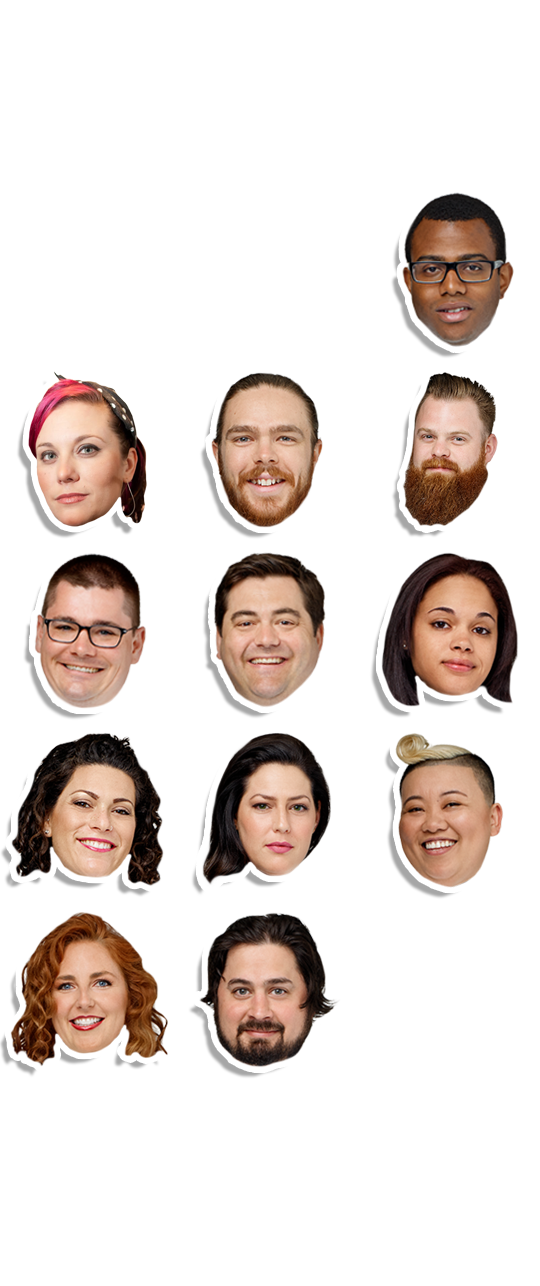
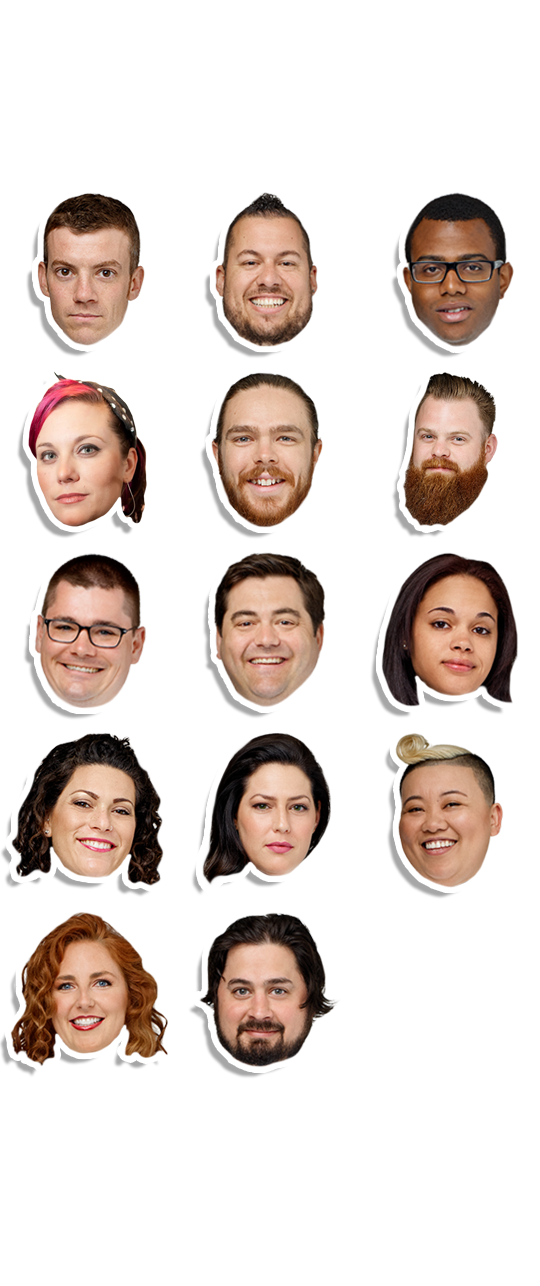
added new episode

Changed region(s): [[0.0296, 0.1244, 0.2667, 0.2799], [0.3852, 0.1244, 0.5926, 0.2799]]

diff --git a/css/main.css b/css/main.css
@@ -1,1 +1,1 @@
-html,body,div,span,applet,object,iframe,h1,h2,h3,h4,h5,h6,p,blockquote,pre,a,abbr,acronym,address,big,cite,code,del,dfn,em,img,ins,kbd,q,s,samp,small,strike,strong,sub,sup,tt,var,b,u,i,center,dl,dt,dd,ol,ul,li,fieldset,form,label,legend,table,caption,tbody,tfoot,thead,tr,th,td,article,aside,canvas,details,embed,figure,figcaption,footer,header,hgroup,menu,nav,output,ruby,section,summary,time,mark,audio,video{margin:0;padding:0;border:0;font-size:100%;font:inherit;vertical-align:baseline}article,aside,details,figcaption,figure,footer,header,hgroup,menu,nav,section{display:block}body{line-height:1}ol,ul{list-style:none}blockquote,q{quotes:none}blockquote:before,blockquote:after,q:before,q:after{content:'';content:none}table{border-collapse:collapse;border-spacing:0}*,*:after,*:before{-moz-box-sizing:border-box;-webkit-box-sizing:border-box;box-sizing:border-box}html{font-size:100%;-webkit-text-size-adjust:none}body{text-rendering:optimizeLegibility;-webkit-font-smoothing:antialiased;font-family:'Helvetica Neue',Helvetica,Arial,sans-serif;font-size:18px;line-height:1.4;color:white;background:#333}::-moz-selection{background-color:#ba55d3;color:white}::selection{background-color:#ba55d3;color:white}h1,p{margin-bottom:20px}h1{font-weight:bold}a{display:inline-block;text-decoration:none;color:#0ff}p a{border-bottom:1px dotted transparent;}p a:hover{border-bottom:1px dotted #0ff}p{margin:0 0 20px}em{font-style:italic}img:not(.avatar){width:100%;max-width:100%}.footnote{font-size:14px;color:rgba(255,255,255,0.6)}.cf:before,.grid:before,.cf:after,.grid:after{content:" ";display:table}.cf:after,.grid:after{clear:both}.nav-main{height:45px;position:relative;background:#333;}.nav-main a,.nav-main label{color:white}.nav-main .nav-home{margin:10px 20px;float:left}.nav-main input.menu-toggle{visibility:hidden;position:absolute;left:-100%}.nav-main label{padding:10px 20px;float:right;background:#800080;border-left:1px solid rgba(255,255,255,0.2);cursor:pointer}.nav-main .nav-seasons{display:none;position:absolute;top:45px;left:0;z-index:100}.nav-main .menu-toggle:checked ~ .nav-seasons{display:block}.nav-main .nav-seasons{background-image:linear-gradient(to right,#4682b4,#c71585)}.nav-seasons{width:100%;background-image:linear-gradient(to right,#4682b4,#008b8b);border-top:1px solid rgba(255,255,255,0.3);border-bottom:1px solid rgba(255,255,255,0.3);box-shadow:0 3px 3px rgba(0,0,0,0.2);}.nav-seasons li{float:left;border-right:1px solid rgba(255,255,255,0.3);}.nav-seasons li a{padding:10px;display:block;color:white;}.nav-seasons li a:hover{background:rgba(0,0,0,0.1)}.nav-seasons li span{display:block}.nav-seasons li span:first-of-type{font-size:24px;font-weight:bold}.nav-seasons li span:nth-of-type(2){font-size:15px}@media screen and (max-width:400px){.nav-seasons li{width:25%;}.nav-seasons li:nth-child(-n+12){border-bottom:1px solid rgba(255,255,255,0.3)}.nav-seasons li:nth-child(4),.nav-seasons li:nth-child(8),.nav-seasons li:nth-child(12){border-right:none}}@media screen and (min-width:401px) and (max-width:650px){.nav-seasons li{width:20%;}.nav-seasons li:nth-child(-n+10){border-bottom:1px solid rgba(255,255,255,0.3)}.nav-seasons li:nth-child(5),.nav-seasons li:nth-child(10){border-right:none}}@media screen and (min-width:651px) and (max-width:1030px){.nav-seasons li{width:14.28%;}.nav-seasons li:nth-child(-n+7){border-bottom:1px solid rgba(255,255,255,0.3)}.nav-seasons li:nth-child(7){border-right:none}}@media screen and (min-width:1031px){.nav-seasons li{width:7.69%;}.nav-seasons li:last-child{border-right:none}}@media screen and (max-width:700px){.grid{padding-bottom:40px}}@media screen and (min-width:701px){.grid-item{margin:0 0 30px;padding:0 15px;float:left}.grid-sm-1{width:100%}.grid-sm-2{width:50%}.grid-sm-3{width:33.33%}}@media screen and (min-width:1001px){.grid-item{margin:0 0 50px;padding:0 25px}.grid-lg-2{width:50%}.grid-lg-3{width:33.33%}.grid-lg-3-1{width:66.66%}.grid-lg-4{width:25%}.grid-lg-5{width:20%}}.intro{margin:0 auto 30px;padding:30px 15px;background:rgba(0,0,0,0.1);text-align:center;}.intro h1{font-size:45px;}.intro h1 span{display:block}.intro h1 span:last-child{font-size:30px}.intro h2{margin-bottom:20px;font-size:24px}.intro p{max-width:500px;margin-left:auto;margin-right:auto}@media screen and (max-width:500px){.intro h1{font-size:35px;}.intro h1 span:last-child{font-size:20px}}@media screen and (min-width:701px) and (max-width:1000px){.intro{margin-bottom:60px}}@media screen and (min-width:1001px){.intro{margin-bottom:100px}}@media screen and (min-width:701px){.avatar{width:90px;height:90px}}@media screen and (max-width:700px){.avatar{width:70px;height:70px}}.icon{background:no-repeat left top;}.icon.woman{background-image:url("../images/woman.svg")}.icon.man{background-image:url("../images/man.svg")}.stat .number{position:relative;font-weight:bold;}.stat .number span{display:inline-block}.stat .number span + span{margin-left:15px}.stat .number .roster{padding-left:50px;position:absolute;right:0;}.stat .number .roster .avatar{float:right}.stat .name{margin-left:10px;display:inline-block;position:absolute;background:rgba(0,0,0,0.2);border-radius:3px;font-weight:normal;line-height:1;}.stat .name .avatar{display:block;position:absolute}@media screen and (max-width:700px){.stat:not(.person){padding:10px 0;border-bottom:1px solid rgba(255,255,255,0.5);}.stat:not(.person) h2{padding-top:10px;float:left}.stat:not(.person) .number{text-align:right;font-size:30px}.stat:not(.person) .woman,.stat:not(.person) .man{background-position:left 9px;background-size:auto 23px;padding-left:23px}.stat.person h2{padding:20px 0 5px;border-bottom:1px solid rgba(255,255,255,0.5)}.stat.person .number{font-size:55px;}.stat.person .number .roster{top:8px}.stat.person .name{padding:8px 40px 8px 10px;top:25px;right:30px;font-size:15px;}.stat.person .name .avatar{top:-15px;right:-35px}}@media screen and (min-width:701px){.stat h2{border-bottom:1px solid rgba(255,255,255,0.5)}.stat .number{font-size:85px;}.stat .number .roster{top:15px}.stat .name{padding:8px 45px 6px 10px;top:50px;right:40px;font-size:16px;}.stat .name .avatar{top:-32px;right:-45px}.stat .woman,.stat .man{background-position:left center;background-size:auto 50px;padding-left:40px}}.featured{padding:30px 15px 20px;background:rgba(0,0,0,0.1);text-align:center;clear:left;}.featured .number,.featured .phrase{font-weight:bold}.featured .phrase{margin-top:5px;margin-bottom:20px;font-size:40px;line-height:1.2}.featured.restaurant-wars .avatar{margin-bottom:15px}.featured.phrase-list{background:rgba(255,255,255,0.1);border-top:1px solid rgba(255,255,255,0.2);border-bottom:1px solid rgba(255,255,255,0.2);}.featured.phrase-list .phrase{margin-bottom:40px}.featured.phrase-list p{margin-bottom:8px;padding:5px 45px 5px 10px;position:relative;background:rgba(0,0,0,0.05);border-radius:3px;}.featured.phrase-list p span{position:absolute;top:50%;-webkit-transform:translateY(-50%);-moz-transform:translateY(-50%);transform:translateY(-50%);right:10px;font-size:12px;font-weight:bold}.featured .roster{margin-left:auto;margin-right:auto;max-width:850px}@media screen and (max-width:700px){.featured{margin:30px 0;}.featured .number{font-size:40px}.featured .phrase{font-size:25px}.featured.phrase-list .grid-item{margin-bottom:0}}@media screen and (min-width:701px){.featured{margin:0 0 80px;}.featured .number{font-size:85px}.featured.phrase-list .grid-item{margin-bottom:20px}}.roster .avatar{margin:0 -5px;position:relative;z-index:2}.roster .winner{display:inline-block;position:relative;}.roster .winner:before{width:100%;display:block;position:absolute;left:0;content:'WINNER!';z-index:1;font-size:11px;font-weight:bold;letter-spacing:1px;color:white}h2 + .roster{margin-top:15px}@media screen and (max-width:390px){.stat.roster-lg{min-height:190px}}@media screen and (max-width:450px){.season-13 .stat.roster-lg{min-height:190px}}@media screen and (max-width:700px){.roster .winner:before{top:75px}}@media screen and (min-width:701px){.roster .winner:before{top:92px}}@media screen and (min-width:701px) and (max-width:1000px){.stat.roster-lg{min-height:240px}}.ranking{list-style:none;}.ranking li{width:100%;margin:0 0 15px;padding:25px 0;padding-left:60px;position:relative;background-image:linear-gradient(to right,rgba(0,0,0,0) 20px,rgba(0,0,0,0.2) 20px);border-radius:0 3px 3px 0;font-size:16px;}.ranking li .chef{width:90px;height:90px;position:absolute;top:-10px;background:no-repeat;background-size:270px auto}.ranking li:nth-child(1) .chef{background-position:0 0}.ranking li:nth-child(2) .chef{background-position:-90px 0}.ranking li:nth-child(3) .chef{background-position:-180px 0}.ranking li:nth-child(4) .chef{background-position:0 -90px}.ranking li:nth-child(5) .chef{background-position:-90px -90px}.ranking li:nth-child(6) .chef{background-position:-180px -90px}.ranking li:nth-child(7) .chef{background-position:0 -180px}.ranking li:nth-child(8) .chef{background-position:-90px -180px}.ranking li:nth-child(9) .chef{background-position:-180px -180px}.ranking li:nth-child(10) .chef{background-position:0 -270px}.ranking li:nth-child(11) .chef{background-position:-90px -270px}.ranking li:nth-child(12) .chef{background-position:-180px -270px}.ranking li:nth-child(13) .chef{background-position:0 -360px}.ranking li:nth-child(14) .chef{background-position:-90px -360px}.ranking li:nth-child(15) .chef{background-position:-180px -360px}.ranking li:nth-child(16) .chef{background-position:0 -450px}.ranking li:nth-child(17) .chef{background-position:-90px -450px}.ranking li:nth-child(18) .chef{background-position:-180px -450px}.ranking li:nth-child(19) .chef{background-position:0 -540px}.ranking li:nth-child(20) .chef{background-position:-90px -540px}.ranking li span{padding-right:50px;display:block;position:relative;}.ranking li span:after{padding:7px 10px;position:absolute;right:5px;top:-6px;font-weight:bold}.ranking li:nth-child(2) span:after{content:'2nd'}.ranking li:nth-child(2) span:after{content:'2nd'}.ranking li:nth-child(3) span:after{content:'3rd'}.ranking li:nth-child(4) span:after{content:'4th'}.ranking li:nth-child(5) span:after{content:'5th'}.ranking li:nth-child(6) span:after{content:'6th'}.ranking li:nth-child(7) span:after{content:'7th'}.ranking li:nth-child(8) span:after{content:'8th'}.ranking li:nth-child(9) span:after{content:'9th'}.ranking li:nth-child(10) span:after{content:'10th'}.ranking li:nth-child(11) span:after{content:'11th'}.ranking li:nth-child(12) span:after{content:'12th'}.ranking li:nth-child(13) span:after{content:'13th'}.ranking li:nth-child(14) span:after{content:'14th'}.ranking li:nth-child(15) span:after{content:'15th'}.ranking li:nth-child(16) span:after{content:'16th'}.ranking li:nth-child(17) span:after{content:'17th'}.ranking li:nth-child(18) span:after{content:'18th'}.ranking li:nth-child(19) span:after{content:'19th'}.ranking li:nth-child(20) span:after{content:'20th'}.ranking li:first-child span:before,.ranking li.fan-fave span:before{width:0;height:0;content:'';position:absolute;right:-10px;top:25px;border-style:solid;border-width:10px 10px 0 0}.ranking li:first-child span:after,.ranking li.fan-fave span:after{right:-10px;font-size:16px;line-height:1}.ranking li:first-child span:before{border-color:#daa520 transparent transparent transparent}.ranking li:first-child span:after{content:'Winner';background:#ffd700;color:#a52a2a}.ranking li.fan-fave span:before{border-color:#4b0082 transparent transparent transparent}.ranking li.fan-fave span:after{content:'Fan Fave';background:#9932cc;color:white}.ranking.current li:nth-child(-n+5){display:none}@media screen and (max-width:700px){.ranking li{padding:15px 0;padding-left:55px;}.ranking li .chef{left:-15px;width:70px;height:70px;background-size:210px auto}.ranking li:nth-child(1) .chef{background-position:0 0}.ranking li:nth-child(2) .chef{background-position:-70px 0}.ranking li:nth-child(3) .chef{background-position:-140px 0}.ranking li:nth-child(4) .chef{background-position:0 -70px}.ranking li:nth-child(5) .chef{background-position:-70px -70px}.ranking li:nth-child(6) .chef{background-position:-140px -70px}.ranking li:nth-child(7) .chef{background-position:0 -140px}.ranking li:nth-child(8) .chef{background-position:-70px -140px}.ranking li:nth-child(9) .chef{background-position:-140px -140px}.ranking li:nth-child(10) .chef{background-position:0 -210px}.ranking li:nth-child(11) .chef{background-position:-70px -210px}.ranking li:nth-child(12) .chef{background-position:-140px -210px}.ranking li:nth-child(13) .chef{background-position:0 -280px}.ranking li:nth-child(14) .chef{background-position:-70px -280px}.ranking li:nth-child(15) .chef{background-position:-140px -280px}.ranking li:nth-child(16) .chef{background-position:0 -350px}.ranking li:nth-child(17) .chef{background-position:-70px -350px}.ranking li:nth-child(18) .chef{background-position:-140px -350px}.ranking li:nth-child(19) .chef{background-position:0 -420px}.ranking li:nth-child(20) .chef{background-position:-70px -420px}}@media screen and (min-width:701px){.ranking li{padding-left:60px;}.ranking li .chef{left:-30px}}footer{padding:40px 20px;background:#333;text-align:center;}footer p{margin-bottom:20px}.p0{padding:0}.m0{margin:0}.center{text-align:center}.left{text-align:left}.bg-dark{background:rgba(0,0,0,0.1)}.bg-light{background:rgba(255,255,255,0.1)}.season{background:linear-gradient(175deg,#008b8b 0,#c71585 100%);padding:20px;}.season.home{background:linear-gradient(170deg,#4682b4 0,#008b8b 50%,#c71585 100%)}.season.glossary,.season.four-oh-four{background:linear-gradient(170deg,#4682b4 0,#008b8b 50%)}.season-01 .ranking li .chef{background-image:url("/images/season-01.png")}.season-02 .ranking li .chef{background-image:url("/images/season-02.png")}.season-03 .ranking li .chef{background-image:url("/images/season-03.png")}.season-04 .ranking li .chef{background-image:url("/images/season-04.png")}.season-05 .ranking li .chef{background-image:url("/images/season-05.png")}.season-06 .ranking li .chef{background-image:url("/images/season-06.png")}.season-07 .ranking li .chef{background-image:url("/images/season-07.png")}.season-08 .ranking li .chef{background-image:url("/images/season-08.png")}.season-09 .ranking li .chef{background-image:url("/images/season-09.png")}.season-10 .ranking li .chef{background-image:url("/images/season-10.png")}.season-11 .ranking li .chef{background-image:url("/images/season-11.png")}.season-12 .ranking li .chef{background-image:url("/images/season-12.png")}.season-13 .ranking li .chef{background-image:url("/images/season-13.png")}.glossary-list{max-width:550px;margin:0 auto 60px;}.glossary-list dt{margin-bottom:10px;font-weight:bold;font-size:20px}.glossary-list dd{margin-bottom:40px}.glossary-list p{margin-left:20px;margin-bottom:20px}.glossary-list ol{list-style:decimal;padding-left:45px;}.glossary-list ol li{margin-bottom:10px}@media screen and (min-width:1001px){.glossary-list{margin-top:-40px}}
+html,body,div,span,applet,object,iframe,h1,h2,h3,h4,h5,h6,p,blockquote,pre,a,abbr,acronym,address,big,cite,code,del,dfn,em,img,ins,kbd,q,s,samp,small,strike,strong,sub,sup,tt,var,b,u,i,center,dl,dt,dd,ol,ul,li,fieldset,form,label,legend,table,caption,tbody,tfoot,thead,tr,th,td,article,aside,canvas,details,embed,figure,figcaption,footer,header,hgroup,menu,nav,output,ruby,section,summary,time,mark,audio,video{margin:0;padding:0;border:0;font-size:100%;font:inherit;vertical-align:baseline}article,aside,details,figcaption,figure,footer,header,hgroup,menu,nav,section{display:block}body{line-height:1}ol,ul{list-style:none}blockquote,q{quotes:none}blockquote:before,blockquote:after,q:before,q:after{content:'';content:none}table{border-collapse:collapse;border-spacing:0}*,*:after,*:before{-moz-box-sizing:border-box;-webkit-box-sizing:border-box;box-sizing:border-box}html{font-size:100%;-webkit-text-size-adjust:none}body{text-rendering:optimizeLegibility;-webkit-font-smoothing:antialiased;font-family:'Helvetica Neue',Helvetica,Arial,sans-serif;font-size:18px;line-height:1.4;color:white;background:#333}::-moz-selection{background-color:#ba55d3;color:white}::selection{background-color:#ba55d3;color:white}h1,p{margin-bottom:20px}h1{font-weight:bold}a{display:inline-block;text-decoration:none;color:#0ff}p a{border-bottom:1px dotted transparent;}p a:hover{border-bottom:1px dotted #0ff}p{margin:0 0 20px}em{font-style:italic}img:not(.avatar){width:100%;max-width:100%}.footnote{font-size:14px;color:rgba(255,255,255,0.6)}.cf:before,.grid:before,.cf:after,.grid:after{content:" ";display:table}.cf:after,.grid:after{clear:both}.nav-main{height:45px;position:relative;background:#333;}.nav-main a,.nav-main label{color:white}.nav-main .nav-home{margin:10px 20px;float:left}.nav-main input.menu-toggle{visibility:hidden;position:absolute;left:-100%}.nav-main label{padding:10px 20px;float:right;background:#800080;border-left:1px solid rgba(255,255,255,0.2);cursor:pointer}.nav-main .nav-seasons{display:none;position:absolute;top:45px;left:0;z-index:100}.nav-main .menu-toggle:checked ~ .nav-seasons{display:block}.nav-main .nav-seasons{background-image:linear-gradient(to right,#4682b4,#c71585)}.nav-seasons{width:100%;background-image:linear-gradient(to right,#4682b4,#008b8b);border-top:1px solid rgba(255,255,255,0.3);border-bottom:1px solid rgba(255,255,255,0.3);box-shadow:0 3px 3px rgba(0,0,0,0.2);}.nav-seasons li{float:left;border-right:1px solid rgba(255,255,255,0.3);}.nav-seasons li a{padding:10px;display:block;color:white;}.nav-seasons li a:hover{background:rgba(0,0,0,0.1)}.nav-seasons li span{display:block}.nav-seasons li span:first-of-type{font-size:24px;font-weight:bold}.nav-seasons li span:nth-of-type(2){font-size:15px}@media screen and (max-width:400px){.nav-seasons li{width:25%;}.nav-seasons li:nth-child(-n+12){border-bottom:1px solid rgba(255,255,255,0.3)}.nav-seasons li:nth-child(4),.nav-seasons li:nth-child(8),.nav-seasons li:nth-child(12){border-right:none}}@media screen and (min-width:401px) and (max-width:650px){.nav-seasons li{width:20%;}.nav-seasons li:nth-child(-n+10){border-bottom:1px solid rgba(255,255,255,0.3)}.nav-seasons li:nth-child(5),.nav-seasons li:nth-child(10){border-right:none}}@media screen and (min-width:651px) and (max-width:1030px){.nav-seasons li{width:14.28%;}.nav-seasons li:nth-child(-n+7){border-bottom:1px solid rgba(255,255,255,0.3)}.nav-seasons li:nth-child(7){border-right:none}}@media screen and (min-width:1031px){.nav-seasons li{width:7.69%;}.nav-seasons li:last-child{border-right:none}}@media screen and (max-width:700px){.grid{padding-bottom:40px}}@media screen and (min-width:701px){.grid-item{margin:0 0 30px;padding:0 15px;float:left}.grid-sm-1{width:100%}.grid-sm-2{width:50%}.grid-sm-3{width:33.33%}}@media screen and (min-width:1001px){.grid-item{margin:0 0 50px;padding:0 25px}.grid-lg-2{width:50%}.grid-lg-3{width:33.33%}.grid-lg-3-1{width:66.66%}.grid-lg-4{width:25%}.grid-lg-5{width:20%}}.intro{margin:0 auto 30px;padding:30px 15px;background:rgba(0,0,0,0.1);text-align:center;}.intro h1{font-size:45px;}.intro h1 span{display:block}.intro h1 span:last-child{font-size:30px}.intro h2{margin-bottom:20px;font-size:24px}.intro p{max-width:500px;margin-left:auto;margin-right:auto}@media screen and (max-width:500px){.intro h1{font-size:35px;}.intro h1 span:last-child{font-size:20px}}@media screen and (min-width:701px) and (max-width:1000px){.intro{margin-bottom:60px}}@media screen and (min-width:1001px){.intro{margin-bottom:100px}}@media screen and (min-width:701px){.avatar{width:90px;height:90px}}@media screen and (max-width:700px){.avatar{width:70px;height:70px}}.icon{background:no-repeat left top;}.icon.woman{background-image:url("../images/woman.svg")}.icon.man{background-image:url("../images/man.svg")}.stat .number{position:relative;font-weight:bold;}.stat .number span{display:inline-block}.stat .number span + span{margin-left:15px}.stat .number .roster{padding-left:50px;position:absolute;right:0;}.stat .number .roster .avatar{float:right}.stat .name{margin-left:10px;display:inline-block;position:absolute;background:rgba(0,0,0,0.2);border-radius:3px;font-weight:normal;line-height:1;}.stat .name .avatar{display:block;position:absolute}@media screen and (max-width:700px){.stat:not(.person){padding:10px 0;border-bottom:1px solid rgba(255,255,255,0.5);}.stat:not(.person) h2{padding-top:10px;float:left}.stat:not(.person) .number{text-align:right;font-size:30px}.stat:not(.person) .woman,.stat:not(.person) .man{background-position:left 9px;background-size:auto 23px;padding-left:23px}.stat.person h2{padding:20px 0 5px;border-bottom:1px solid rgba(255,255,255,0.5)}.stat.person .number{font-size:55px;}.stat.person .number .roster{top:8px}.stat.person .name{padding:8px 40px 8px 10px;top:25px;right:30px;font-size:15px;}.stat.person .name .avatar{top:-15px;right:-35px}}@media screen and (min-width:701px){.stat h2{border-bottom:1px solid rgba(255,255,255,0.5)}.stat .number{font-size:85px;}.stat .number .roster{top:15px}.stat .name{padding:8px 45px 6px 10px;top:50px;right:40px;font-size:16px;}.stat .name .avatar{top:-32px;right:-45px}.stat .woman,.stat .man{background-position:left center;background-size:auto 50px;padding-left:40px}}.featured{padding:30px 15px 20px;background:rgba(0,0,0,0.1);text-align:center;clear:left;}.featured .number,.featured .phrase{font-weight:bold}.featured .phrase{margin-top:5px;margin-bottom:20px;font-size:40px;line-height:1.2}.featured.restaurant-wars .avatar{margin-bottom:15px}.featured.phrase-list{background:rgba(255,255,255,0.1);border-top:1px solid rgba(255,255,255,0.2);border-bottom:1px solid rgba(255,255,255,0.2);}.featured.phrase-list .phrase{margin-bottom:40px}.featured.phrase-list p{margin-bottom:8px;padding:5px 45px 5px 10px;position:relative;background:rgba(0,0,0,0.05);border-radius:3px;}.featured.phrase-list p span{position:absolute;top:50%;-webkit-transform:translateY(-50%);-moz-transform:translateY(-50%);transform:translateY(-50%);right:10px;font-size:12px;font-weight:bold}.featured .roster{margin-left:auto;margin-right:auto;max-width:850px}@media screen and (max-width:700px){.featured{margin:30px 0;}.featured .number{font-size:40px}.featured .phrase{font-size:25px}.featured.phrase-list .grid-item{margin-bottom:0}}@media screen and (min-width:701px){.featured{margin:0 0 80px;}.featured .number{font-size:85px}.featured.phrase-list .grid-item{margin-bottom:20px}}.roster .avatar{margin:0 -5px;position:relative;z-index:2}.roster .winner{display:inline-block;position:relative;}.roster .winner:before{width:100%;display:block;position:absolute;left:0;content:'WINNER!';z-index:1;font-size:11px;font-weight:bold;letter-spacing:1px;color:white}h2 + .roster{margin-top:15px}@media screen and (max-width:390px){.stat.roster-lg{min-height:190px}}@media screen and (max-width:450px){.season-13 .stat.roster-lg{min-height:190px}}@media screen and (max-width:700px){.roster .winner:before{top:75px}}@media screen and (min-width:701px){.roster .winner:before{top:92px}}@media screen and (min-width:701px) and (max-width:1000px){.stat.roster-lg{min-height:240px}}.ranking{list-style:none;}.ranking li{width:100%;margin:0 0 15px;padding:25px 0;padding-left:60px;position:relative;background-image:linear-gradient(to right,rgba(0,0,0,0) 20px,rgba(0,0,0,0.2) 20px);border-radius:0 3px 3px 0;font-size:16px;}.ranking li .chef{width:90px;height:90px;position:absolute;top:-10px;background:no-repeat;background-size:270px auto}.ranking li:nth-child(1) .chef{background-position:0 0}.ranking li:nth-child(2) .chef{background-position:-90px 0}.ranking li:nth-child(3) .chef{background-position:-180px 0}.ranking li:nth-child(4) .chef{background-position:0 -90px}.ranking li:nth-child(5) .chef{background-position:-90px -90px}.ranking li:nth-child(6) .chef{background-position:-180px -90px}.ranking li:nth-child(7) .chef{background-position:0 -180px}.ranking li:nth-child(8) .chef{background-position:-90px -180px}.ranking li:nth-child(9) .chef{background-position:-180px -180px}.ranking li:nth-child(10) .chef{background-position:0 -270px}.ranking li:nth-child(11) .chef{background-position:-90px -270px}.ranking li:nth-child(12) .chef{background-position:-180px -270px}.ranking li:nth-child(13) .chef{background-position:0 -360px}.ranking li:nth-child(14) .chef{background-position:-90px -360px}.ranking li:nth-child(15) .chef{background-position:-180px -360px}.ranking li:nth-child(16) .chef{background-position:0 -450px}.ranking li:nth-child(17) .chef{background-position:-90px -450px}.ranking li:nth-child(18) .chef{background-position:-180px -450px}.ranking li:nth-child(19) .chef{background-position:0 -540px}.ranking li:nth-child(20) .chef{background-position:-90px -540px}.ranking li span{padding-right:50px;display:block;position:relative;}.ranking li span:after{padding:7px 10px;position:absolute;right:5px;top:-6px;font-weight:bold}.ranking li:nth-child(2) span:after{content:'2nd'}.ranking li:nth-child(2) span:after{content:'2nd'}.ranking li:nth-child(3) span:after{content:'3rd'}.ranking li:nth-child(4) span:after{content:'4th'}.ranking li:nth-child(5) span:after{content:'5th'}.ranking li:nth-child(6) span:after{content:'6th'}.ranking li:nth-child(7) span:after{content:'7th'}.ranking li:nth-child(8) span:after{content:'8th'}.ranking li:nth-child(9) span:after{content:'9th'}.ranking li:nth-child(10) span:after{content:'10th'}.ranking li:nth-child(11) span:after{content:'11th'}.ranking li:nth-child(12) span:after{content:'12th'}.ranking li:nth-child(13) span:after{content:'13th'}.ranking li:nth-child(14) span:after{content:'14th'}.ranking li:nth-child(15) span:after{content:'15th'}.ranking li:nth-child(16) span:after{content:'16th'}.ranking li:nth-child(17) span:after{content:'17th'}.ranking li:nth-child(18) span:after{content:'18th'}.ranking li:nth-child(19) span:after{content:'19th'}.ranking li:nth-child(20) span:after{content:'20th'}.ranking li:first-child span:before,.ranking li.fan-fave span:before{width:0;height:0;content:'';position:absolute;right:-10px;top:25px;border-style:solid;border-width:10px 10px 0 0}.ranking li:first-child span:after,.ranking li.fan-fave span:after{right:-10px;font-size:16px;line-height:1}.ranking li:first-child span:before{border-color:#daa520 transparent transparent transparent}.ranking li:first-child span:after{content:'Winner';background:#ffd700;color:#a52a2a}.ranking li.fan-fave span:before{border-color:#4b0082 transparent transparent transparent}.ranking li.fan-fave span:after{content:'Fan Fave';background:#9932cc;color:white}.ranking.current li:nth-child(-n+3){display:none}@media screen and (max-width:700px){.ranking li{padding:15px 0;padding-left:55px;}.ranking li .chef{left:-15px;width:70px;height:70px;background-size:210px auto}.ranking li:nth-child(1) .chef{background-position:0 0}.ranking li:nth-child(2) .chef{background-position:-70px 0}.ranking li:nth-child(3) .chef{background-position:-140px 0}.ranking li:nth-child(4) .chef{background-position:0 -70px}.ranking li:nth-child(5) .chef{background-position:-70px -70px}.ranking li:nth-child(6) .chef{background-position:-140px -70px}.ranking li:nth-child(7) .chef{background-position:0 -140px}.ranking li:nth-child(8) .chef{background-position:-70px -140px}.ranking li:nth-child(9) .chef{background-position:-140px -140px}.ranking li:nth-child(10) .chef{background-position:0 -210px}.ranking li:nth-child(11) .chef{background-position:-70px -210px}.ranking li:nth-child(12) .chef{background-position:-140px -210px}.ranking li:nth-child(13) .chef{background-position:0 -280px}.ranking li:nth-child(14) .chef{background-position:-70px -280px}.ranking li:nth-child(15) .chef{background-position:-140px -280px}.ranking li:nth-child(16) .chef{background-position:0 -350px}.ranking li:nth-child(17) .chef{background-position:-70px -350px}.ranking li:nth-child(18) .chef{background-position:-140px -350px}.ranking li:nth-child(19) .chef{background-position:0 -420px}.ranking li:nth-child(20) .chef{background-position:-70px -420px}}@media screen and (min-width:701px){.ranking li{padding-left:60px;}.ranking li .chef{left:-30px}}footer{padding:40px 20px;background:#333;text-align:center;}footer p{margin-bottom:20px}.p0{padding:0}.m0{margin:0}.center{text-align:center}.left{text-align:left}.bg-dark{background:rgba(0,0,0,0.1)}.bg-light{background:rgba(255,255,255,0.1)}.season{background:linear-gradient(175deg,#008b8b 0,#c71585 100%);padding:20px;}.season.home{background:linear-gradient(170deg,#4682b4 0,#008b8b 50%,#c71585 100%)}.season.glossary,.season.four-oh-four{background:linear-gradient(170deg,#4682b4 0,#008b8b 50%)}.season-01 .ranking li .chef{background-image:url("/images/season-01.png")}.season-02 .ranking li .chef{background-image:url("/images/season-02.png")}.season-03 .ranking li .chef{background-image:url("/images/season-03.png")}.season-04 .ranking li .chef{background-image:url("/images/season-04.png")}.season-05 .ranking li .chef{background-image:url("/images/season-05.png")}.season-06 .ranking li .chef{background-image:url("/images/season-06.png")}.season-07 .ranking li .chef{background-image:url("/images/season-07.png")}.season-08 .ranking li .chef{background-image:url("/images/season-08.png")}.season-09 .ranking li .chef{background-image:url("/images/season-09.png")}.season-10 .ranking li .chef{background-image:url("/images/season-10.png")}.season-11 .ranking li .chef{background-image:url("/images/season-11.png")}.season-12 .ranking li .chef{background-image:url("/images/season-12.png")}.season-13 .ranking li .chef{background-image:url("/images/season-13.png")}.glossary-list{max-width:550px;margin:0 auto 60px;}.glossary-list dt{margin-bottom:10px;font-weight:bold;font-size:20px}.glossary-list dd{margin-bottom:40px}.glossary-list p{margin-left:20px;margin-bottom:20px}.glossary-list ol{list-style:decimal;padding-left:45px;}.glossary-list ol li{margin-bottom:10px}@media screen and (min-width:1001px){.glossary-list{margin-top:-40px}}

diff --git a/season-13/index.html b/season-13/index.html
@@ -49,10 +49,10 @@
             <div class="chef"></div><span></span>
           </li>
           <li>
-            <div class="chef"></div><span></span>
+            <div class="chef"></div><span>Carl Dooley</span>
           </li>
           <li>
-            <div class="chef"></div><span></span>
+            <div class="chef"></div><span>Amar Santana</span>
           </li>
           <li>
             <div class="chef"></div><span>Kwame Onwuachi</span>
@@ -98,11 +98,11 @@
           </div>
           <div class="stat grid-item grid-sm-1 grid-lg-2">
             <h2>Total Guest Judges</h2>
-            <div class="number">16</div>
+            <div class="number">18</div>
           </div>
           <div class="stat grid-item grid-sm-1 grid-lg-2">
             <h2>Total Challenges</h2>
-            <div class="number">22</div>
+            <div class="number">25</div>
           </div>
           <div class="stat grid-item grid-sm-1 grid-lg-2">
             <h2>Total Team Challenges</h2>
@@ -111,19 +111,19 @@
           <div class="stat person grid-item grid-sm-1 grid-lg-2">
             <h2>Most Quickfire Wins</h2>
             <div class="number">2
-              <div class="name">Wesley True<img src="/images/wesley-true.png" class="avatar"></div>
+              <div class="name">Jeremy Ford<img src="/images/jeremy-ford.png" class="avatar"></div>
             </div>
           </div>
           <div class="stat person grid-item grid-sm-1 grid-lg-2">
             <h2>Most Elimination Wins</h2>
-            <div class="number">2
-              <div class="roster"><img src="/images/kwame-onwuachi.png" class="avatar"><img src="/images/jeremy-ford.png" class="avatar"><img src="/images/marjorie-meek-bradley.png" class="avatar"></div>
+            <div class="number">3
+              <div class="name">Jeremy Ford<img src="/images/jeremy-ford.png" class="avatar"></div>
             </div>
           </div>
           <div class="stat person grid-item grid-sm-1 grid-lg-2">
             <h2>Most Overall Wins</h2>
-            <div class="number">3
-              <div class="roster"><img src="/images/jeremy-ford.png" class="avatar"><img src="/images/marjorie-meek-bradley.png" class="avatar"></div>
+            <div class="number">5
+              <div class="name">Jeremy Ford<img src="/images/jeremy-ford.png" class="avatar"></div>
             </div>
           </div>
           <div class="featured relay-race">

diff --git a/index.html b/index.html
@@ -63,7 +63,7 @@
         </div>
         <div class="stat grid-item grid-sm-2 grid-lg-3">
           <h2>Total Guest Judges</h2>
-          <div class="number">164</div>
+          <div class="number">165</div>
         </div>
         <div class="stat person grid-item grid-sm-2 grid-lg-3">
           <h2>Most Frequent Guest Judge</h2>
